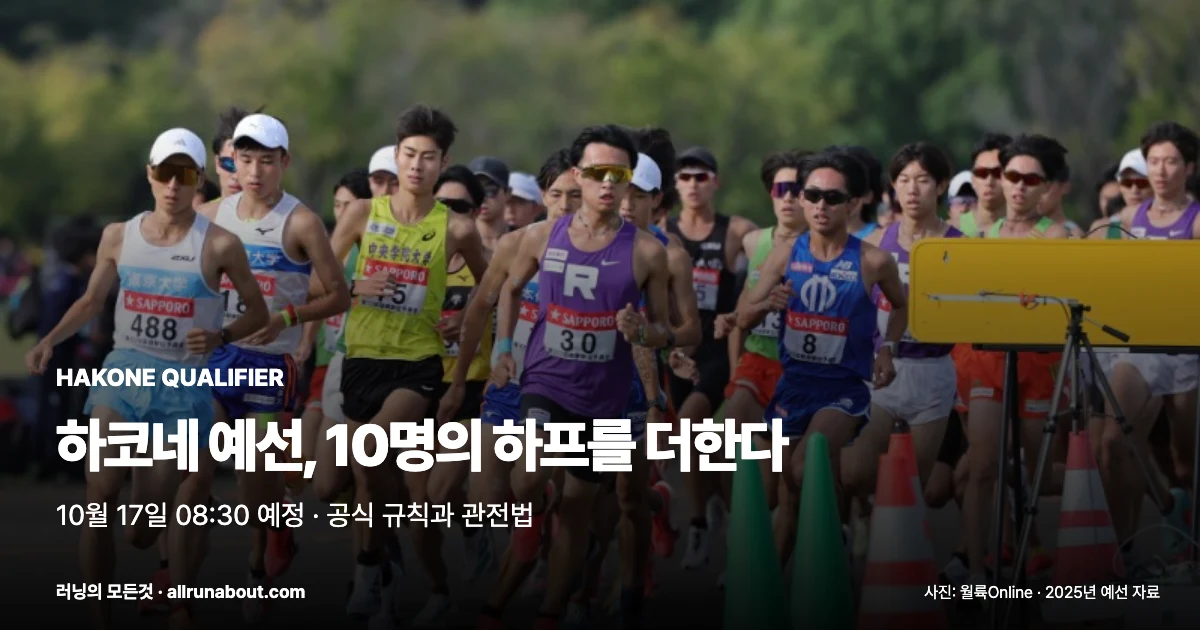
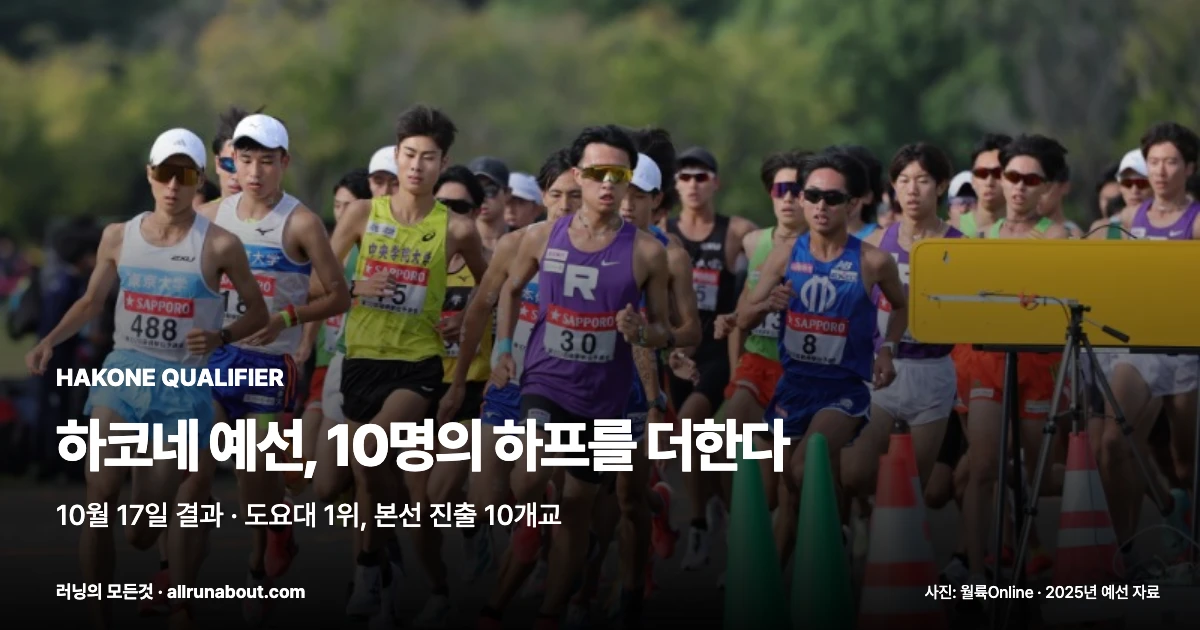
chore(followups): Run Journey post-race tense; Hakone thumbnail to result tense
- dongma-run-journey-medal-2026: race held (official Instagram thanks post), pre-race section replaced, medal distribution marked as no official notice as of 10/18; eligibility unchanged
- hakone-ekiden-qualifier-2026 thumbnail: subtitle "10월 17일 08:30 예정 · 공식 규칙과 관전법" -> "10월 17일 결과 · 도요대 1위, 본선 진출 10개교" (same photo/layout re-rendered)

diff --git a/src/lib/data/blog/posts/2026-10.ts b/src/lib/data/blog/posts/2026-10.ts
@@ -416,28 +416,29 @@ export const posts_2026_10: BlogPost[] = [
     id: 'dongma-run-journey-medal-2026',
     slug: 'dongma-run-journey-medal-2026',
     title: '2026 런저니 메달 공개 | 서울·공주·경주 완주 조건과 경주 수령 안내',
-    description: '2026 동마 런저니 메달이 공개됐습니다. 세 도시를 담은 디자인과 이름·기록 각인, 서울마라톤 완주 및 공주·경주 10km 이상 완주 조건을 정리했습니다. 경주실내체육관 멤버십&런저니존은 배번호 하단 2026 RUN JOURNEY 표시를 확인하세요.',
+    description: '2026 동마 런저니 메달이 공개됐습니다. 세 도시를 담은 디자인과 이름·기록 각인, 서울마라톤 완주 및 공주·경주 10km 이상 완주 조건을 정리했습니다. 경주마라톤은 10월 17일 열렸으며, 대회 후 메달 지급 진행에 관한 공식 공지는 10월 18일 기준 확인되지 않았습니다.',
     thumbnail: '/images/blog/dongma-run-journey-medal-2026.webp',
     author: '산초 에디터',
     publishedAt: '2026-10-16',
+    updatedAt: '2026-10-18',
     category: 'news' as const,
     readingTime: 4,
     tags: ['런저니 메달', '동마 런저니', '경주마라톤', '서울마라톤', '공주백제마라톤', '마라톤 메달'],
     faqs: [
       { question: '2026 런저니 메달은 어떤 조건으로 받나요?', answer: '서울마라톤 공식 런저니 안내는 2026 서울마라톤을 완주한 런저니 레이스 참가자가 공주백제마라톤과 경주마라톤에서 각각 10km 이상 코스를 완주하면 추가 메달을 받는다고 설명합니다. 현장 대상 확인을 위해 배번호 하단의 2026 RUN JOURNEY 표시도 확인하세요.' },
       { question: '공주와 경주에서 풀코스를 뛰어야 하나요?', answer: '공식 런저니 안내의 하반기 조건은 두 대회 각각 10km 이상 코스 완주입니다. 세 대회 모두 풀코스를 완주해야 한다는 조건으로 바꾸어 읽지 마세요.' },
-      { question: '경주에서는 어디에서 메달을 받나요?', answer: '경주마라톤의 멤버십&런저니존은 경주실내체육관에 마련됩니다. 배번호 하단에 2026 RUN JOURNEY가 표시된 참가자가 입장할 수 있으며, 골인 후 해당 완주자에게 런저니 메달을 지급하고 성명·기록 각인을 안내합니다. 세부 이동 동선은 현장 안내를 따르세요.' },
+      { question: '경주에서는 어디에서 메달을 받나요?', answer: '대회 전 경주마라톤 공식 안내는 경주실내체육관의 멤버십&런저니존에서 배번호 하단에 2026 RUN JOURNEY가 표시된 완주자에게 골인 후 런저니 메달을 지급하고 성명·기록 각인을 안내한다고 밝혔습니다. 경주마라톤은 10월 17일 열렸지만, 실제 지급 진행에 관한 대회 후 공식 공지는 10월 18일 기준 확인되지 않았습니다. 받지 못했거나 대상 여부가 불확실하면 사무국에 문의하세요.' },
       { question: '메달에 이름과 기록을 새길 수 있나요?', answer: '경주마라톤 공식 멤버십&런저니존 안내에 성명과 기록 각인이 명시돼 있습니다. 공개된 뒷면 사진의 이름과 기록은 디자인을 보여주는 예시입니다.' },
     ],
     content: `
 <div class="tldr"><span class="tldr-label">3줄 요약</span><ul>
 <li><strong>2026 런저니 메달이 공개됐습니다.</strong> 서울·공주·경주를 한 메달에 담고, 뒷면에 이름과 기록을 새길 수 있습니다.</li>
 <li><strong>런저니 참가자의 세 대회 완주를 기념합니다.</strong> 공식 안내의 조건은 서울마라톤 완주와 공주·경주 각각 10km 이상 코스 완주입니다.</li>
-<li><strong>경주에서는 배번호 하단을 확인하세요.</strong> ‘2026 RUN JOURNEY’ 표시가 있는 참가자는 경주실내체육관의 전용 존을 이용하며, 해당 완주자에게 골인 후 메달을 지급합니다.</li>
+<li><strong>수령 대상 표시는 배번호 하단입니다.</strong> 대회 전 공식 안내는 ‘2026 RUN JOURNEY’ 표시가 있는 완주자에게 경주실내체육관 전용 존에서 골인 후 메달을 지급한다고 밝혔습니다. 실제 지급 진행에 관한 대회 후 공식 공지는 10월 18일 기준 없습니다.</li>
 </ul></div>
 
 <p>한반도 지도에 보석 세 개를 박고, 그 둘레에 세 도시의 풍경을 새겼습니다. 경주마라톤 사무국이 <strong>2026 런저니(RUN JOURNEY) 메달</strong>을 공개했습니다. 서울에서 시작해 공주를 거쳐 경주까지 이어지는 한 해의 달리기를 기념하는 메달입니다.</p>
-<p>마지막 대회인 경주마라톤은 <strong>10월 17일 토요일</strong> 열립니다. 수령 대상이라면 메달 사진과 함께 배번호 표시, 전용 존 위치도 미리 확인해 두세요.</p>
+<p>마지막 대회인 경주마라톤은 <strong>10월 17일 토요일</strong> 열렸습니다. 사무국은 같은 날 공식 인스타그램에 대회 감사 인사를 올렸습니다. 다만 런저니 메달 지급이 어떻게 진행됐는지에 관한 대회 후 공식 공지는 10월 18일 기준 확인되지 않았습니다. 공지가 나오면 이 글에 반영합니다.</p>
 
 <figure><img src="/images/blog/runjourney-medal-2026/front.webp" alt="경주마라톤 사무국이 공개한 2026 런저니 메달 앞면과 세 도시의 이름이 새겨진 끈" width="960" height="1280" loading="lazy" /><figcaption>공개된 런저니 메달 앞면. 사진: 경주마라톤 사무국 공식 인스타그램.</figcaption></figure>
 
@@ -456,20 +457,20 @@ export const posts_2026_10: BlogPost[] = [
 </tbody></table>
 <p>따라서 공주와 경주까지 모두 풀코스로 달려야 한다는 뜻은 아닙니다. 각 대회의 완주 메달에 더해 받는 별도 메달이며, 런저니 참가 여부와 현장 대상 표시는 함께 확인해야 합니다. <a href="https://seoul-marathon.com/89" target="_blank" rel="noopener noreferrer">서울마라톤 공식 런저니 안내</a></p>
 
-<h2>경주에서 받는다면 배번호부터 확인하세요</h2>
-<p>경주마라톤 공식 <strong>‘멤버십&런저니존 이용 안내’</strong>에 따르면 전용 존은 <strong>경주실내체육관</strong>에 마련됩니다. 입장 대상은 배번호 하단에 <strong>‘2026 RUN JOURNEY’</strong>가 표시된 참가자입니다.</p>
+<h2>경주 현장 수령 방식(대회 전 공식 안내)</h2>
+<p>대회 전 게시된 경주마라톤 공식 <strong>‘멤버십&런저니존 이용 안내’</strong>에 따르면 전용 존은 <strong>경주실내체육관</strong>에 마련됐습니다. 입장 대상은 배번호 하단에 <strong>‘2026 RUN JOURNEY’</strong>가 표시된 참가자입니다. 아래는 그 안내의 운영 계획이며, 현장에서 실제로 어떻게 진행됐는지는 대회 후 공식 공지로 확인되지 않았습니다.</p>
 <ol>
 <li><strong>출발 전:</strong> 배번호 표시를 확인하고 경주실내체육관의 전용 물품보관소·탈의실을 이용합니다. 짐을 맡긴 뒤 본인 출발그룹의 집결 위치로 이동합니다.</li>
 <li><strong>골인 후:</strong> 해당 완주자에게 런저니 메달을 지급하며 성명·기록 각인을 안내합니다. 서비스별 이동 동선은 현장 안내를 따릅니다.</li>
 <li><strong>기록 포토존:</strong> 배번호 확인 후 촬영할 수 있습니다.</li>
 </ol>
-<p>본인이 수령 대상이라고 생각하는데 배번호에 표시가 없다면, 대회 전 사무국에 참가 정보와 배번호를 확인하세요. 세 대회 기록을 갖고 있다는 이유만으로 현장 전용 존에 바로 입장할 수 있다고 판단하지 않는 편이 좋습니다.</p>
+<p>경주에서 메달을 받지 못했거나 수령 대상인지 확실하지 않다면 사무국에 참가 정보와 배번호로 문의하세요. 공식 안내가 밝힌 대상은 배번호 하단에 표시가 있는 참가자입니다. 세 대회 기록이 있다는 사실만으로 대상 여부를 판단하지 마세요. 현장에서 받지 못한 경우의 별도 수령 방법은 공식 안내가 없어 불명입니다.</p>
 <p><small>수령·이용 원문: <a href="https://www.gyeongjumarathon.com/52/?idx=175078781&bmode=view" target="_blank" rel="noopener noreferrer">경주마라톤 공식 멤버십&런저니존 안내</a> · <a href="https://www.instagram.com/gyeongju__marathon/p/DebJM_Oj5Rq/" target="_blank" rel="noopener noreferrer">같은 내용의 공식 인스타그램 안내</a>. 2026년 10월 16일 확인.</small></p>
 
-<h2>경주 대회 전날 챙길 것</h2>
-<p>메달을 받을 곳과 출발그룹 집결 위치는 따로 확인하세요. 짐을 맡긴 뒤 출발 구역까지 이동할 시간이 필요합니다. 배번호는 입장 확인과 기록 포토존에도 쓰이므로 골인 후에도 보관하세요.</p>
-<p>마라톤 준비물을 다시 점검하고 싶다면 <a href="/blog/fall-marathon-race-day-checklist-2026">마라톤 준비물 체크리스트</a>에서 장비와 대회 당일 준비를 확인할 수 있습니다.</p>
-<p><small>이 글은 2026년 10월 16일 공식 메달 공개 이미지, 서울마라톤 런저니 안내, 경주마라톤 현장 이용 안내를 대조해 작성했습니다. 수령 운영이 바뀌면 사무국의 최종 안내를 우선하세요.</small></p>
+<h2>대회 후 확인할 것</h2>
+<p>공식 안내에서 배번호는 전용 존 입장과 기록 포토존 확인에 쓰였습니다. 사무국에 문의할 때 참가 정보를 확인할 수 있도록 배번호를 보관해 두세요. 메달 지급에 관한 공식 후속 공지가 나오면 그 안내를 우선하세요.</p>
+<p>다음 대회를 준비한다면 <a href="/blog/fall-marathon-race-day-checklist-2026">마라톤 준비물 체크리스트</a>에서 장비와 대회 당일 준비를 확인할 수 있습니다.</p>
+<p><small>이 글은 2026년 10월 16일 공식 메달 공개 이미지, 서울마라톤 런저니 안내, 경주마라톤 현장 이용 안내를 대조해 작성했습니다. 2026년 10월 18일 <a href="https://www.instagram.com/gyeongju__marathon/p/DelohF9Dyvg/" target="_blank" rel="noopener noreferrer">경주마라톤 공식 인스타그램의 대회 후 감사 게시물</a>로 대회 개최를 반영했으며, 이 게시물과 공식 공지 게시판에는 메달 지급 진행에 관한 내용이 없었습니다. 수령 운영은 사무국의 최종 안내를 우선하세요.</small></p>
 `,
   },
   {

diff --git a/.omc/todo-estimates.md b/.omc/todo-estimates.md
@@ -33,7 +33,7 @@
 | 확인일 | 대상 | 할 일 |
 |---|---|---|
 | ✅ **2026-10-16** | `jurassic-park-run-2026` 접수 상태 | 공식 홈의 카카오톡 선물하기 10KM(14260006)·5KM(14260012) 링크를 열어 두 상품 모두 판매 종료 문구 확인. DB를 마감으로 갱신해 날짜 불일치 해소 |
-| **2026-10-19** | 블로그 `dongma-run-journey-medal-2026` | 10/17 경주 대회 이후 공식 안내로 메달 지급 진행 여부 확인. 대회 전 시제·수령 안내 갱신. ‘RUN JOURNEY’ 배번호 표시 없는 완주자까지 수령 대상으로 확장하지 않음 — **10/18 이월 사유**: 경주마라톤 공지 게시판(gyeongjumarathon.com/52, 최신=국제부 순위 결과)·공식 인스타 대회 후 감사 게시물(p/DelohF9Dyvg)·서울마라톤 런저니 안내(seoul-marathon.com/89, 여전히 ‘수여될 예정’) 어디에도 대회 후 메달 지급 진행 공지 없음. 참가자 개인 게시물만 있어 공식 근거 불충분 → 본문 미수정 |
+| **2026-10-19** | 블로그 `dongma-run-journey-medal-2026` | 10/17 경주 대회 이후 공식 안내로 메달 지급 진행 여부 확인 → 확인되면 본문의 “10월 18일 기준 공식 공지 없음” 문장(요약·3줄 요약·도입·FAQ·수령 절·출처) 갱신. ‘RUN JOURNEY’ 배번호 표시 없는 완주자까지 수령 대상으로 확장하지 않음 — **10/18 시제만 갱신 완료**: 대회 개최는 공식 인스타 감사 게시물(p/DelohF9Dyvg) 근거로 과거 시제 반영, ‘대회 전날 챙길 것’ 절 → ‘대회 후 확인할 것’, 메달 지급은 불명 처리. **메달 확인 이월 사유**: 경주마라톤 공지 게시판(gyeongjumarathon.com/52, 최신=국제부 순위 결과)·공식 인스타 대회 후 감사 게시물(p/DelohF9Dyvg)·서울마라톤 런저니 안내(seoul-marathon.com/89, 여전히 ‘수여될 예정’) 어디에도 대회 후 메달 지급 진행 공지 없음. 참가자 개인 게시물만 있어 공식 근거 불충분 → 본문 미수정 |
 | **2026-10-30** | 블로그 `jtbc-seoul-marathon-pacemaker-2026` + DB | 공식 페이서 배치 변경·종목별 집결·엑스포 운영 최종 공지 재확인. 무릎보호대 증정은 10/29~30 한정 행사이므로 종료 이후 권유 시제 갱신 |
 
 ## 📰 10월 15일 발행 — 백야드 세계팀선수권 후속
